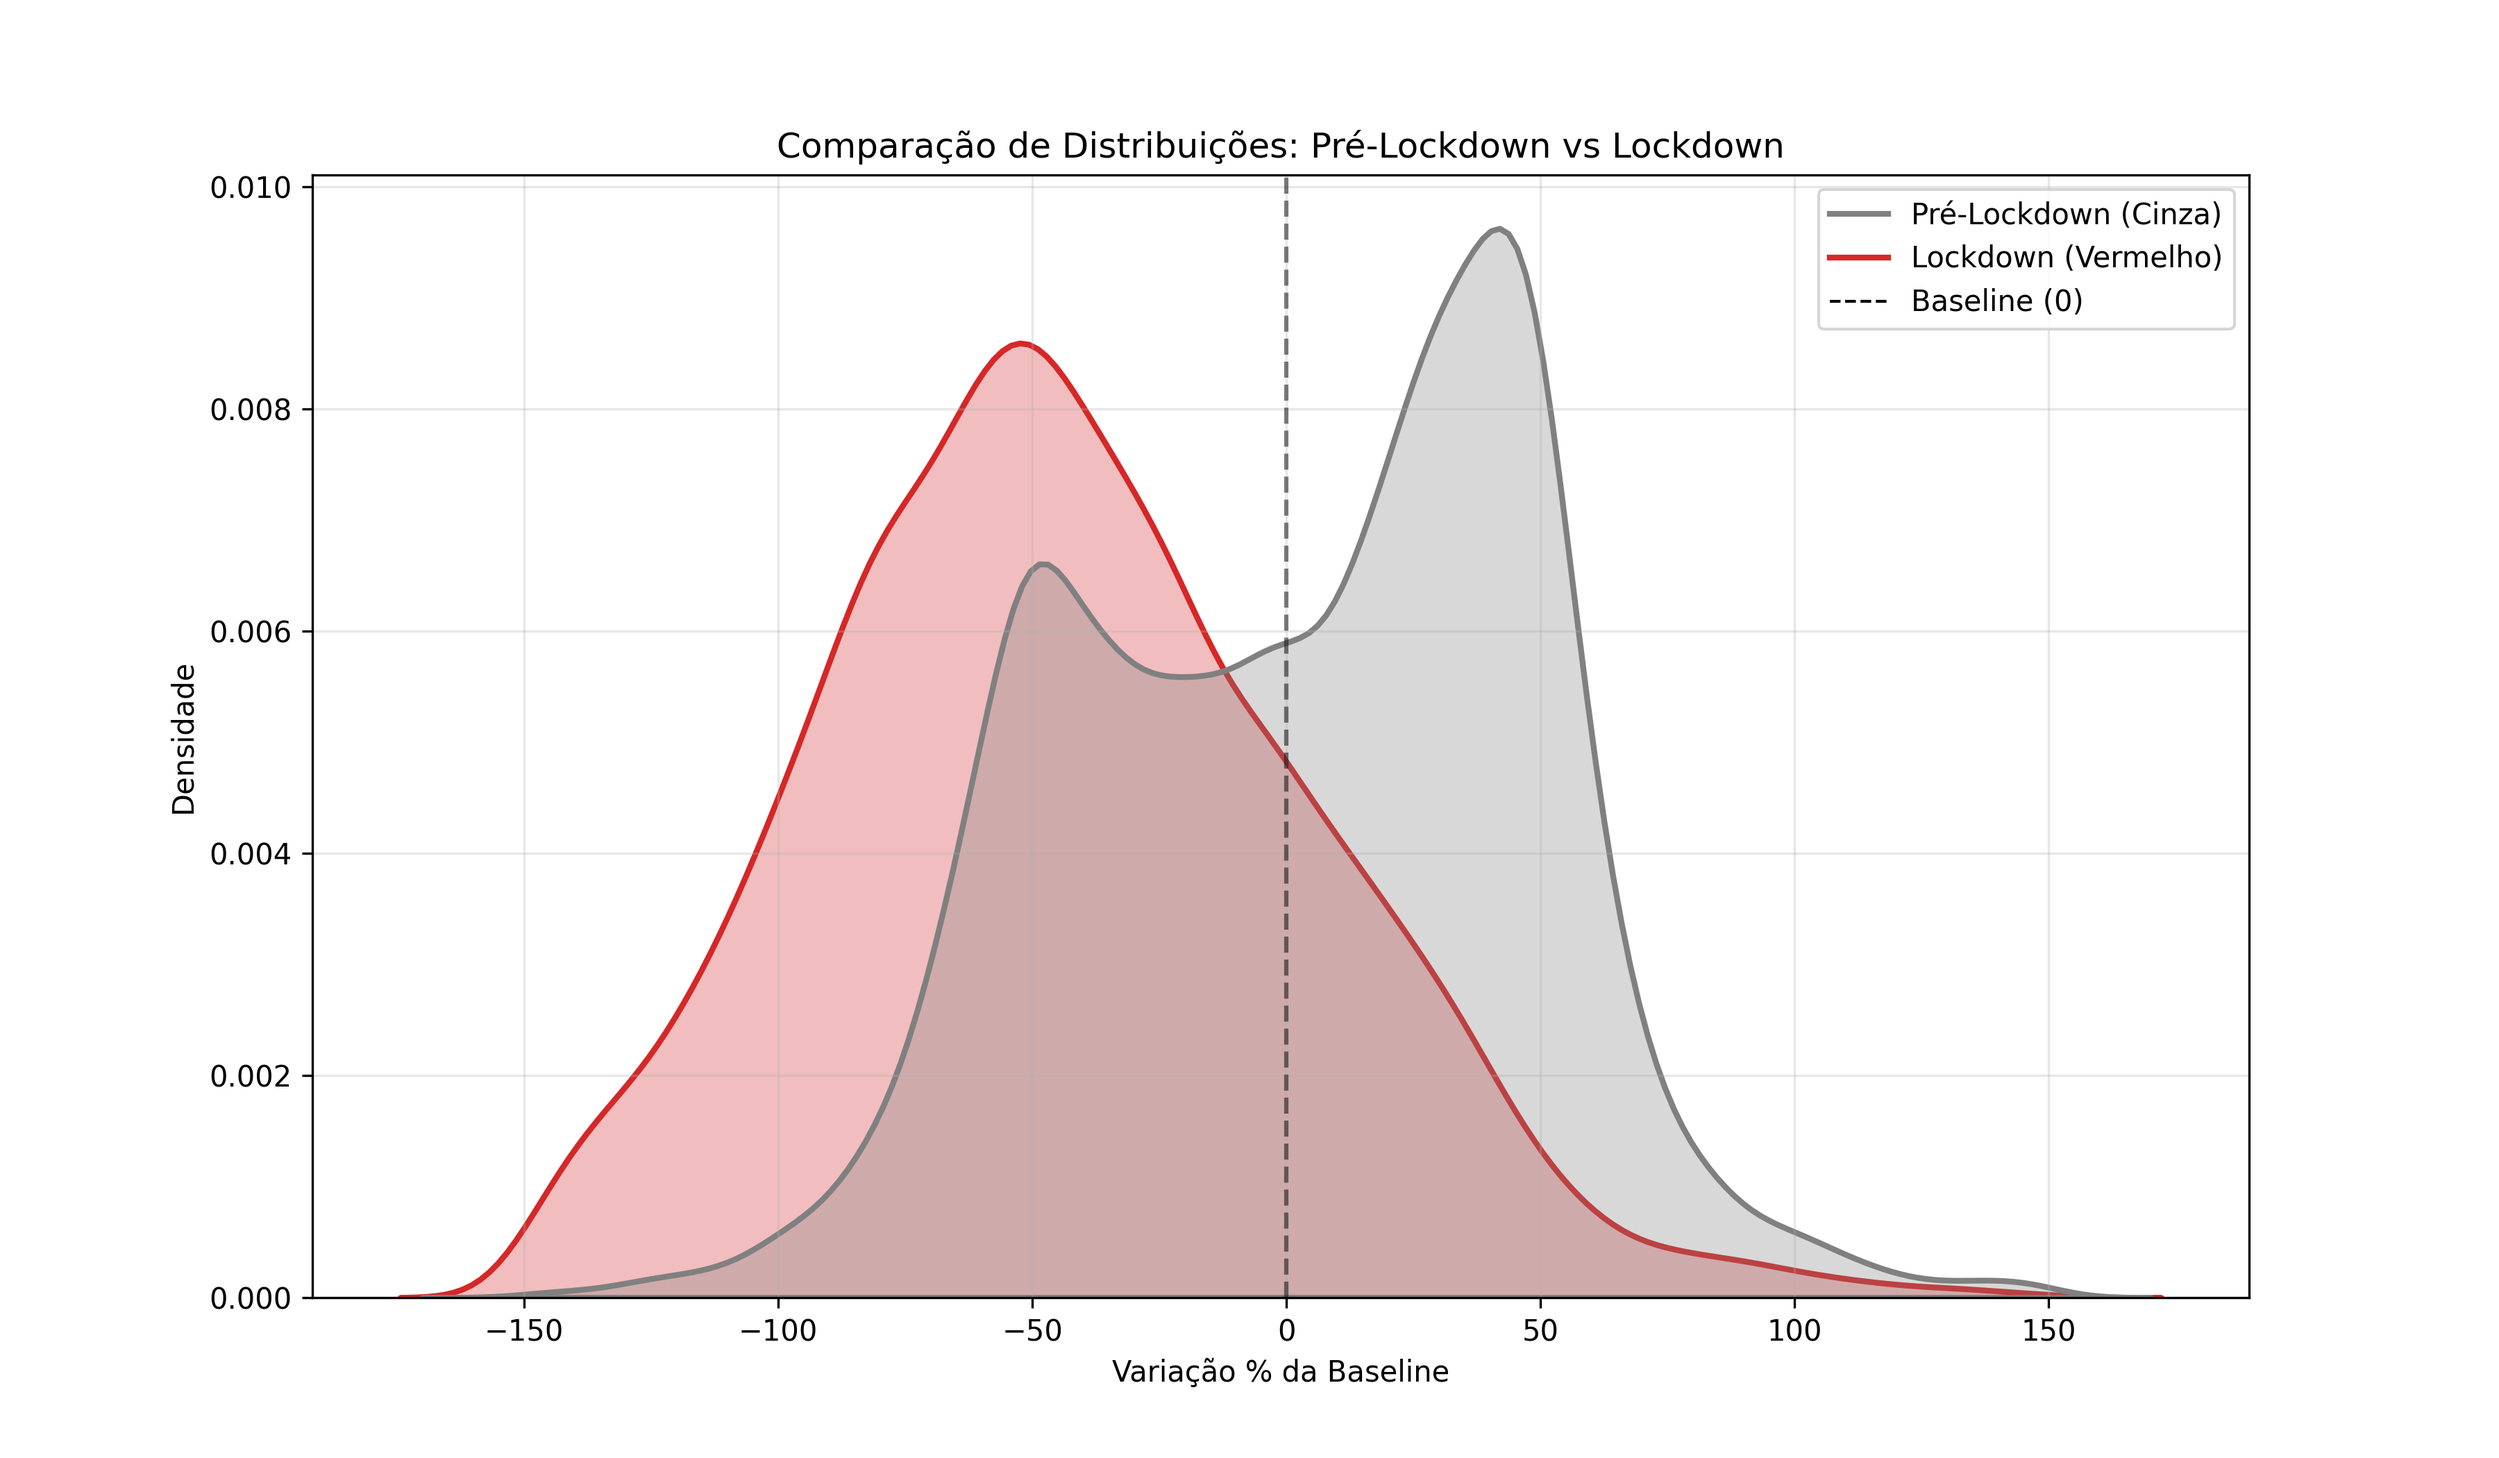
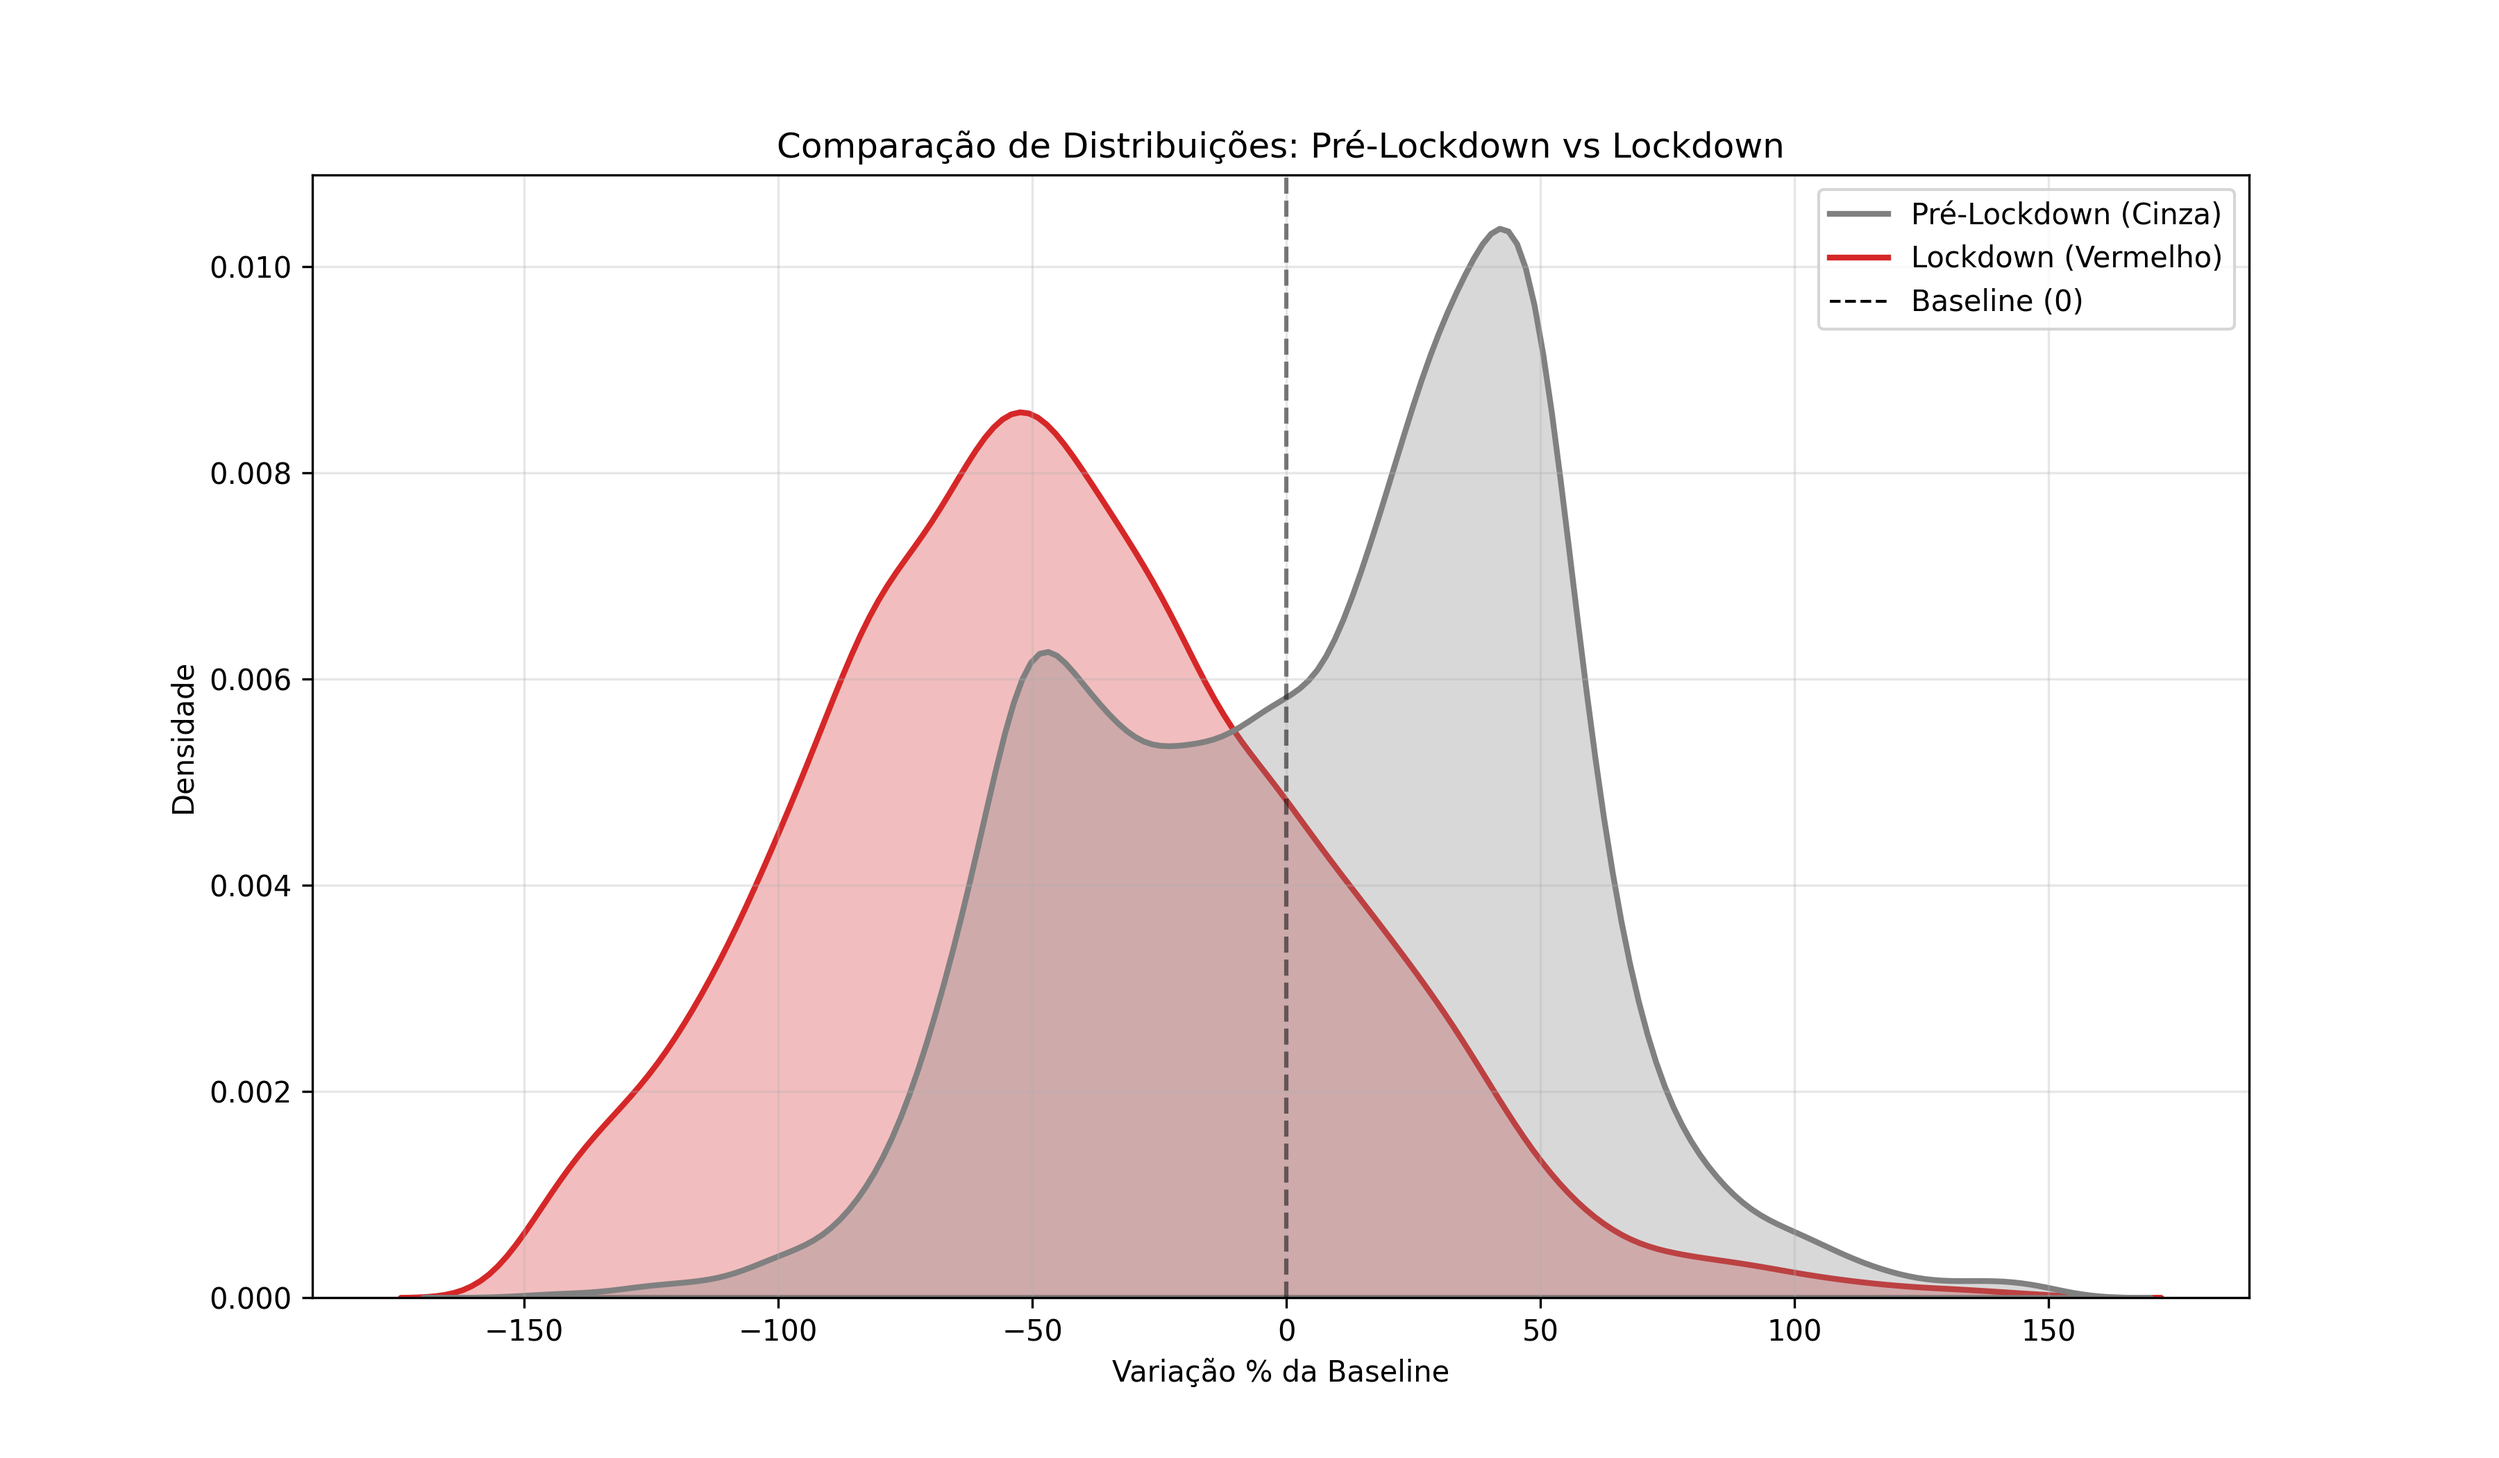
Fix: Apply holiday filter (Dec 24-Jan 02) to Pre-Lockdown data in all plots

diff --git a/02_statistical_analysis.py b/02_statistical_analysis.py
@@ -131,7 +131,23 @@ def perform_analysis():
     
     # Filter for plotting (exclude extreme outliers visually)
     range_mask = (df['noise_change_pct'] > -150) & (df['noise_change_pct'] < 150)
-    plot_df = df[range_mask]
+    plot_df = df[range_mask].copy()
+
+    # --- Holiday Filter for Pre-Lockdown (User Request) ---
+    # Convert 'date' to datetime objects if not already
+    plot_df['date'] = pd.to_datetime(plot_df['date'])
+    
+    # Define Holiday Period: Dec 24 to Jan 02
+    start_holiday = pd.Timestamp('2019-12-24')
+    end_holiday = pd.Timestamp('2020-01-02')
+    
+    # Filter Condition: Keep if NOT (Pre-Lockdown AND is_in_holiday_window)
+    holiday_mask = (plot_df['condition'] == 'Pre-Lockdown') & \
+                   (plot_df['date'] >= start_holiday) & \
+                   (plot_df['date'] <= end_holiday)
+    
+    # Keep rows where holiday_mask is False
+    plot_df = plot_df[~holiday_mask]
     
     # Use KDE Plot for cleaner curves (as requested by user preference in other plot)
     # Explicitly defining legend
@@ -170,7 +186,19 @@ def perform_analysis():
     # filtering to 1st-99th percentile usually removes extreme transient spikes
     q_low = df['noise_change_pct'].quantile(0.01)
     q_high = df['noise_change_pct'].quantile(0.99)
-    df_filtered = df[(df['noise_change_pct'] > q_low) & (df['noise_change_pct'] < q_high)]
+    df_filtered = df[(df['noise_change_pct'] > q_low) & (df['noise_change_pct'] < q_high)].copy()
+
+    # --- Holiday Filter for Pre-Lockdown (Violin) ---
+    df_filtered['date'] = pd.to_datetime(df_filtered['date'])
+    # Holiday Period: Dec 24 to Jan 02
+    start_holiday = pd.Timestamp('2019-12-24')
+    end_holiday = pd.Timestamp('2020-01-02')
+    
+    holiday_mask_violin = (df_filtered['condition'] == 'Pre-Lockdown') & \
+                          (df_filtered['date'] >= start_holiday) & \
+                          (df_filtered['date'] <= end_holiday)
+                          
+    df_filtered = df_filtered[~holiday_mask_violin]
     
     # Violin Plot (The "Bell")
     sns.violinplot(data=df_filtered, x='condition', y='noise_change_pct', 

diff --git a/README.md b/README.md
@@ -64,6 +64,7 @@ A série temporal abaixo mostra a mediana global da variação do ruído. Note a
 
 ### 4.2 Distribuições de Densidade (Pré vs Pós)
 Comparando as distribuições de probabilidade (KDE), vemos claramente o "deslocamento para a esquerda" (negativo) da curva vermelha (Lockdown), indicando a redução geral da energia sísmica.
+*   **Nota**: Os dados do período de festas (24/Dez a 02/Jan) foram removidos do conjunto "Pré-Lockdown" para evitar vieses de redução de ruído típicos de feriados.
 
 ![Distribution Comparison](distribution_comparison.png)
 
